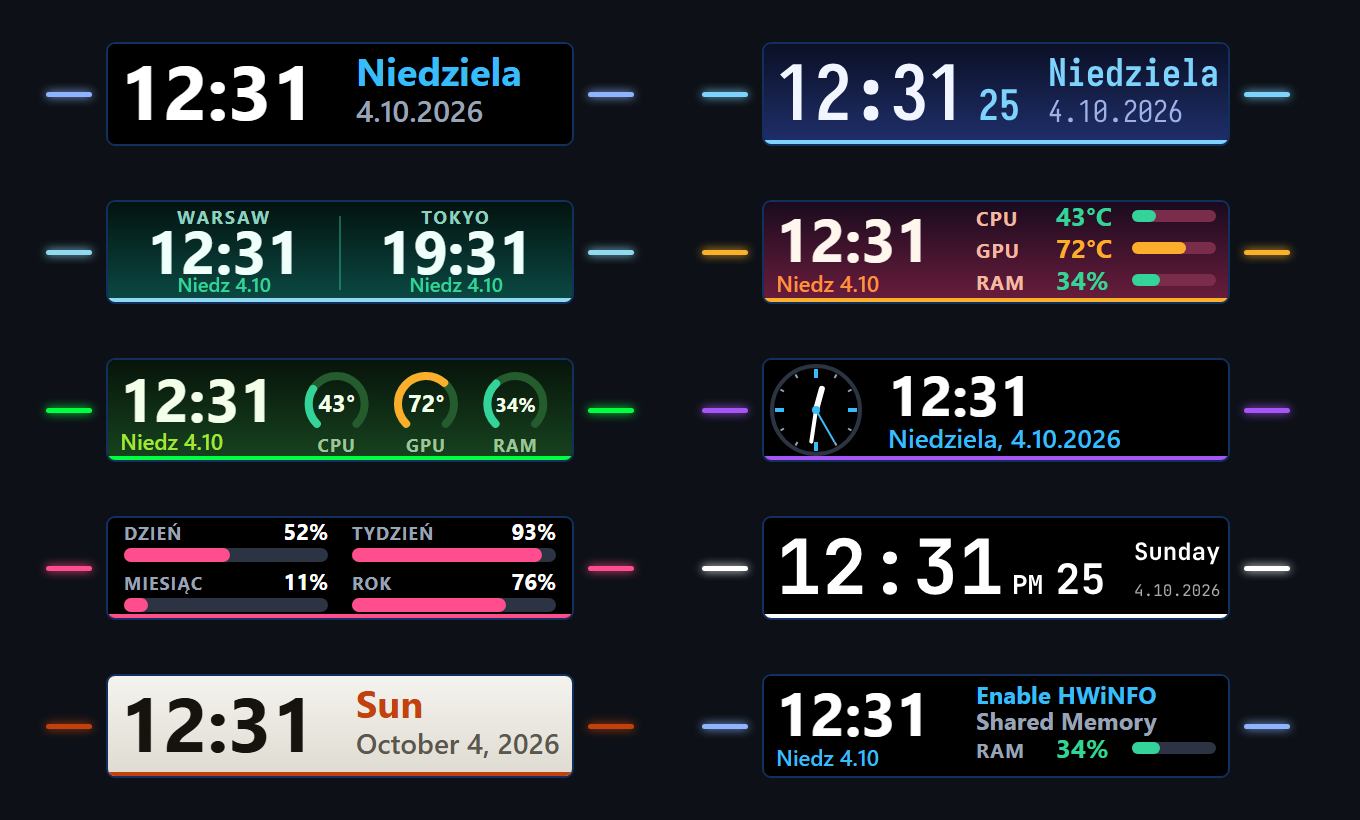
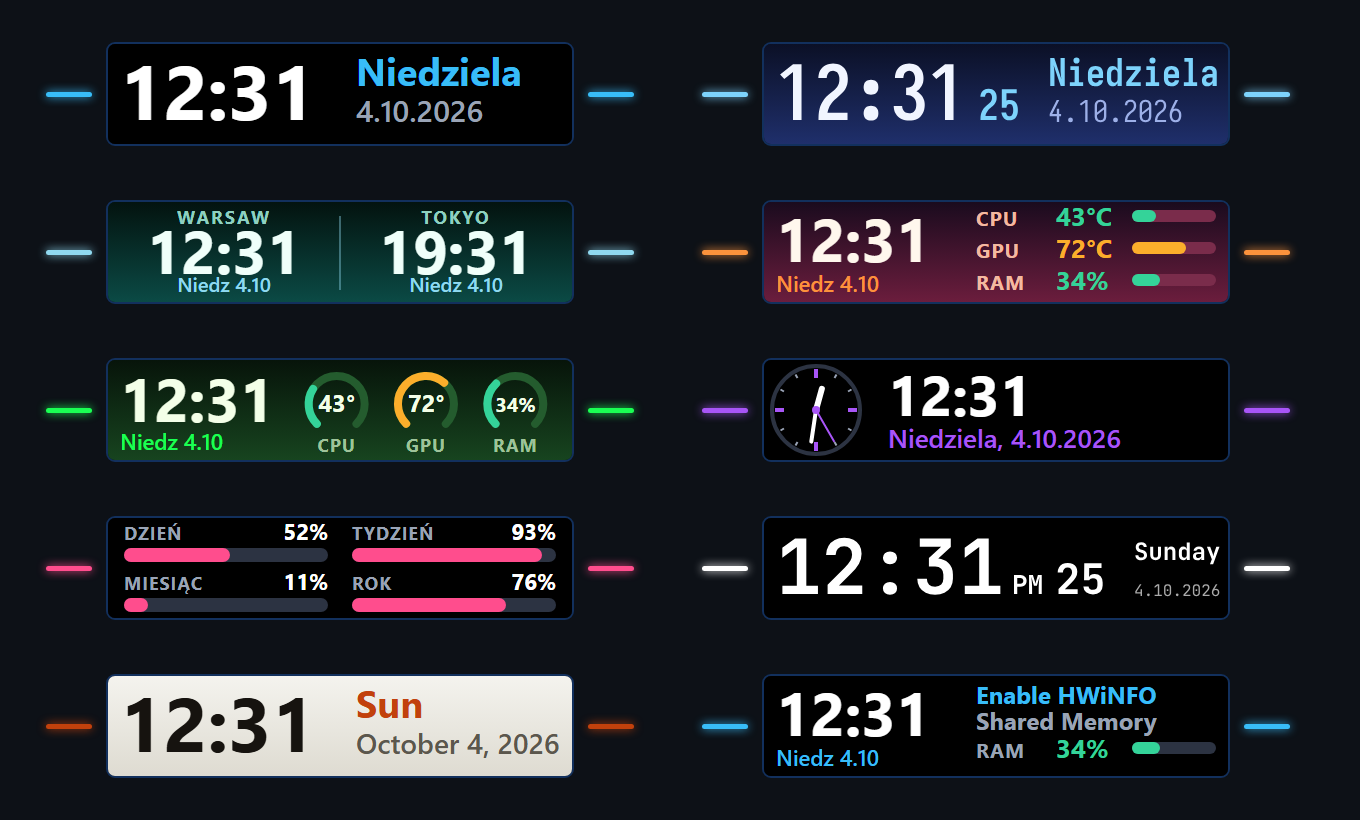
Side lights: no extra line; accent effects (rainbow, pulse, temperature, time of day, weekday, alert) drive the accent color the lights follow

diff --git a/com.elemental.infobar.sdPlugin/ui/infobar.html b/com.elemental.infobar.sdPlugin/ui/infobar.html
@@ -8,7 +8,7 @@
 		SDPIComponents.i18n.locales = {
 			en: {
 				panelLang: "Panel language", mode: "Mode", modeClock: "Clock", modeDual: "Two time zones", modeStats: "Clock + readings", modeDash: "Dashboard (gauges)", modeAnalog: "Analog clock", modeProgress: "Progress (day / week / month / year)",
-				theme: "Theme", font: "Font", refresh: "Refresh rate", rAuto: "Automatic", rSec: "per second", sensorEvery: "Readings update", sEvery: "every", accent: "Accent color", accentTheme: "From theme", accentCustom: "Custom", accentPick: "Pick a color", led: "Side lights", ledAuto: "Automatic (default)", ledAccent: "Match accent color", ledCustom: "Custom color", ledSplit: "Two colors (left / right)", ledPick2: "Right light color", ledRainbow: "Rainbow", ledPulse: "Pulse (breathing)", ledTemp: "By CPU / GPU temperature", ledHours: "By time of day", ledWeekday: "By weekday", ledAlert: "Default, red flashing when too hot", ledPick: "Light color (left)", ledNote: "The side lights take their color from a thin 2 px line along the bottom edge of the infobar.",
+				theme: "Theme", font: "Font", refresh: "Refresh rate", rAuto: "Automatic", rSec: "per second", sensorEvery: "Readings update", sEvery: "every", accent: "Accent color", accentTheme: "From theme", accentCustom: "Custom", accentPick: "Pick a color", led: "Side lights (accent effect)", ledAuto: "Fixed accent color (default)", ledRainbow: "Rainbow", ledPulse: "Pulse (breathing)", ledTemp: "By CPU / GPU temperature", ledHours: "By time of day", ledWeekday: "By weekday", ledAlert: "Red flashing when too hot", ledNote: "The side lights follow the accent color of the picture. The effects animate that accent color (day name, seconds, bars, gauges), so the lights follow it.",
 				dateLang: "Date language", langSystem: "System language", tz: "Time zone", tzLocal: "Local (system)", tzCustom: "Other (type below)…", customTz: "Time zone name", tz2: "Second time zone", customTz2: "Second zone name", label1: "Left label", label2: "Right label", labelHint: "Optional – city by default",
 				hour: "Hours", h24: "24-hour", h12: "12-hour (AM/PM)", seconds: "Seconds", showSeconds: "Show seconds", weekday: "Weekday", wLong: "Long (Sunday)", wShort: "Short (Sun)", wNone: "Hide", dateFmt: "Date format", dMid: "4 Oct 2026 (month name)", dLong: "4 October 2026 (full month)", dDm: "4 October (no year)", week: "Week number", showWeek: "Show week number (W40)", caps: "Names", capsOpt: "Capitalize weekday and month",
 				hwinfo: "HWiNFO", hwinfoNote: "CPU and GPU readings come from HWiNFO: enable Shared Memory Support in its Settings. The free version turns it off after ~12 h – just enable it again.", show: "Show", showCpu: "CPU temperature", showGpu: "GPU temperature", showRam: "RAM usage", unit: "Unit",
@@ -16,7 +16,7 @@
 			},
 			pl: {
 				panelLang: "Język panelu", mode: "Tryb", modeClock: "Zegar", modeDual: "Dwie strefy czasowe", modeStats: "Zegar + odczyty", modeDash: "Pulpit (wskaźniki)", modeAnalog: "Zegar analogowy", modeProgress: "Postęp (dzień / tydzień / miesiąc / rok)",
-				theme: "Motyw", font: "Czcionka", refresh: "Częstotliwość odświeżania", rAuto: "Automatyczna", rSec: "na sekundę", sensorEvery: "Odświeżanie odczytów", sEvery: "co", accent: "Kolor akcentu", accentTheme: "Z motywu", accentCustom: "Własny", accentPick: "Wybierz kolor", led: "Boczne diody", ledAuto: "Automatycznie (domyślnie)", ledAccent: "Kolor akcentu", ledCustom: "Własny kolor", ledSplit: "Dwa kolory (lewa / prawa)", ledPick2: "Kolor prawej diody", ledRainbow: "Tęcza", ledPulse: "Pulsowanie (oddech)", ledTemp: "Wg temperatury CPU / GPU", ledHours: "Wg pory dnia", ledWeekday: "Wg dnia tygodnia", ledAlert: "Domyślne, czerwone miganie przy przegrzaniu", ledPick: "Kolor diod (lewej)", ledNote: "Boczne diody biorą kolor z cienkiej linii (2 px) przy dolnej krawędzi paska.",
+				theme: "Motyw", font: "Czcionka", refresh: "Częstotliwość odświeżania", rAuto: "Automatyczna", rSec: "na sekundę", sensorEvery: "Odświeżanie odczytów", sEvery: "co", accent: "Kolor akcentu", accentTheme: "Z motywu", accentCustom: "Własny", accentPick: "Wybierz kolor", led: "Boczne diody (efekt koloru akcentu)", ledAuto: "Stały kolor akcentu (domyślnie)", ledRainbow: "Tęcza", ledPulse: "Pulsowanie (oddech)", ledTemp: "Wg temperatury CPU / GPU", ledHours: "Wg pory dnia", ledWeekday: "Wg dnia tygodnia", ledAlert: "Czerwone miganie przy przegrzaniu", ledNote: "Boczne diody idą za kolorem akcentu na pasku. Efekty zmieniają ten kolor akcentu (napis dnia, sekundy, paski, wskaźniki), a diody podążają za nim.",
 				dateLang: "Język daty", langSystem: "Język systemu", tz: "Strefa czasowa", tzLocal: "Lokalna (systemowa)", tzCustom: "Inna (wpisz poniżej)…", customTz: "Nazwa strefy", tz2: "Druga strefa czasowa", customTz2: "Nazwa drugiej strefy", label1: "Podpis po lewej", label2: "Podpis po prawej", labelHint: "Opcjonalnie – domyślnie miasto",
 				hour: "Godziny", h24: "24-godzinny", h12: "12-godzinny (AM/PM)", seconds: "Sekundy", showSeconds: "Pokaż sekundy", weekday: "Dzień tygodnia", wLong: "Pełny (niedziela)", wShort: "Skrót (niedz.)", wNone: "Ukryj", dateFmt: "Format daty", dMid: "4 paź 2026 (nazwa miesiąca)", dLong: "4 października 2026 (pełna nazwa)", dDm: "4 października (bez roku)", week: "Numer tygodnia", showWeek: "Pokaż numer tygodnia (W40)", caps: "Nazwy", capsOpt: "Wielka litera w dniu tygodnia i miesiącu",
 				hwinfo: "HWiNFO", hwinfoNote: "Odczyty CPU i GPU pochodzą z HWiNFO: włącz Obsługę pamięci współdzielonej w jego ustawieniach. Darmowa wersja wyłącza ją po ok. 12 h – wystarczy włączyć ją ponownie.", show: "Pokaż", showCpu: "Temperaturę CPU", showGpu: "Temperaturę GPU", showRam: "Zajętość RAM", unit: "Jednostka",
@@ -93,9 +93,6 @@
 	<sdpi-item label="__MSG_led__">
 		<sdpi-select setting="ledMode" default="auto">
 			<option value="auto">__MSG_ledAuto__</option>
-			<option value="accent">__MSG_ledAccent__</option>
-			<option value="color">__MSG_ledCustom__</option>
-			<option value="split">__MSG_ledSplit__</option>
 			<option value="rainbow">__MSG_ledRainbow__</option>
 			<option value="pulse">__MSG_ledPulse__</option>
 			<option value="temp">__MSG_ledTemp__</option>
@@ -103,12 +100,6 @@
 			<option value="weekday">__MSG_ledWeekday__</option>
 			<option value="alert">__MSG_ledAlert__</option>
 		</sdpi-select>
-	</sdpi-item>
-	<sdpi-item label="__MSG_ledPick__" data-when="ledMode=color,pulse,split">
-		<sdpi-color setting="ledColor" default="#ff4d8d"></sdpi-color>
-	</sdpi-item>
-	<sdpi-item label="__MSG_ledPick2__" data-when="ledMode=split">
-		<sdpi-color setting="ledColor2" default="#34d399"></sdpi-color>
 	</sdpi-item>
 	<sdpi-item label=" ">
 		<div style="font-size:11px;line-height:1.4;opacity:.85"><sdpi-i18n key="ledNote"></sdpi-i18n></div>
@@ -309,8 +300,6 @@
 			// wpisujemy kolor do ustawień od razu, żeby to, co widać w próbniku, było tym, co dostaje plugin
 			var ensureDefaults = function (s) {
 				var patch = {};
-				if ((s.ledMode === "color" || s.ledMode === "pulse" || s.ledMode === "split") && (!s.ledColor || s.ledColor === "#000000")) patch.ledColor = "#ff4d8d";
-				if (s.ledMode === "split" && (!s.ledColor2 || s.ledColor2 === "#000000")) patch.ledColor2 = "#34d399";
 				if (s.accentMode === "custom" && !s.accent) patch.accent = "#38bdf8";
 				if (Object.keys(patch).length) { try { client.setSettings(Object.assign({}, s, patch)); } catch (e) { console.error(e); } }
 			};

diff --git a/src/led.ts b/src/led.ts
@@ -3,14 +3,13 @@ import { resolveTz, zoned } from "./clock";
 import type { Sensors, Settings } from "./types";
 
 /**
- * Boczne diody Neo (dwie kreski przy pasku) przyjmują kolor z obrazu na pasku. Sprawdzone doświadczalnie:
- * cienka linia (2 px) przy dolnej krawędzi zmienia ich kolor. Dlatego sterujemy diodami przez kolor takiej linii.
- * Wyłączyć ich się nie da: czarna linia daje kolor domyślny (sprawdził użytkownik), więc nie ma trybu "off".
+ * Boczne diody Neo (dwie kreski przy pasku) przyjmują kolor z obrazu na pasku, w praktyce z jego najwyraźniejszego,
+ * nasyconego koloru, czyli u nas z koloru akcentu (napis dnia, sekundy, paski, wskaźniki). Dlatego diodami sterujemy
+ * wyłącznie przez kolor akcentu, bez żadnej dodatkowej linii: efekty poniżej zmieniają kolor akcentu w czasie.
+ * Wyłączyć diod się nie da, a czerń nie narzuca koloru (sprawdził użytkownik).
  */
 export type LedCtx = { s: Settings; now: Date; accent: string; sensors: Sensors; ms: number };
 
-export const DEFAULT_LED2 = "#34d399"; // prawa dioda w trybie dwóch kolorów
-export const DEFAULT_LED = "#ff4d8d"; // taki sam kolor panel wpisuje do ustawień przy wyborze trybu z kolorem (wyraźnie inny niż domyślny błękit diod)
 const HEX = /^#[0-9a-f]{6}$/i;
 
 const toRgb = (h: string) => [1, 3, 5].map((i) => parseInt(h.slice(i, i + 2), 16));
@@ -30,29 +29,22 @@ function hsl(h: number, s: number, l: number): number[] {
 const DAY: [number, string][] = [[0, "#0b1a4a"], [5, "#25207a"], [6.5, "#ff7a3d"], [9, "#ffd36b"], [12, "#7fd8ff"], [16, "#ffe08a"], [18.5, "#ff6a3d"], [20, "#7a3cff"], [22, "#1a2a7a"], [24, "#0b1a4a"]];
 const WEEK = ["#a855f7", "#ef4444", "#f97316", "#eab308", "#22c55e", "#06b6d4", "#3b82f6"]; // niedziela ... sobota
 
-/** Kolor linii sterującej diodami: jeden kolor albo para [lewa, prawa]; null = tryb automatyczny (nic nie rysujemy). */
-export function ledColor(c: LedCtx): string | [string, string] | null {
+/**
+ * Efekt koloru akcentu (a więc i bocznych diod) w danej chwili albo null (stały kolor akcentu, tryb domyślny).
+ * Zwrócony kolor zastępuje akcent motywu / własny akcent we wszystkich elementach akcentowych.
+ */
+export function accentEffect(c: LedCtx): string | null {
 	const { s } = c;
-	// czarna linia daje kolor domyślny diod, więc czerń (próbnik zapisuje ją, gdy tylko go otworzysz) traktujemy jak brak wyboru
-	const picked = HEX.test(s.ledColor ?? "") && s.ledColor !== "#000000" ? (s.ledColor as string) : DEFAULT_LED;
 	switch (s.ledMode) {
-		case "accent":
-			return c.accent;
-		case "color":
-			return picked;
-		case "split": {
-			const right = HEX.test(s.ledColor2 ?? "") && s.ledColor2 !== "#000000" ? (s.ledColor2 as string) : DEFAULT_LED2;
-			return [picked, right];
-		}
 		case "rainbow":
-			return toHex(hsl(((c.ms / 1000 / 24) % 1) * 360, 1, 0.5)); // pełny obrót barw co 24 s
+			return toHex(hsl(((c.ms / 1000 / 24) % 1) * 360, 1, 0.55)); // pełny obrót barw co 24 s
 		case "pulse": {
-			const k = 0.25 + 0.75 * (0.5 + 0.5 * Math.sin((c.ms / 1000) * ((2 * Math.PI) / 3.5))); // oddech co 3,5 s
-			return toHex(toRgb(picked).map((v) => v * k));
+			const k = 0.3 + 0.7 * (0.5 + 0.5 * Math.sin((c.ms / 1000) * ((2 * Math.PI) / 3.5))); // oddech co 3,5 s
+			return toHex(toRgb(HEX.test(c.accent) ? c.accent : "#38bdf8").map((v) => v * k));
 		}
 		case "temp": {
 			const t = [c.sensors.cpu?.temp, c.sensors.gpu?.temp].filter((v): v is number => typeof v === "number");
-			return t.length ? autoColor(Math.max(...t), 70, 85) : c.accent;
+			return t.length ? autoColor(Math.max(...t), 70, 85) : null;
 		}
 		case "hours": {
 			const z = zoned(c.now, resolveTz(s.tz, s.customTz));
@@ -70,15 +62,9 @@ export function ledColor(c: LedCtx): string | [string, string] | null {
 			return WEEK[zoned(c.now, resolveTz(s.tz, s.customTz)).dow];
 		case "alert": {
 			const hot = (c.sensors.cpu?.temp ?? 0) >= 85 || (c.sensors.gpu?.temp ?? 0) >= 83;
-			return hot ? (Math.floor(c.ms / 500) % 2 === 0 ? "#ff0000" : "#400000") : null; // zwykle kolor domyślny (diod nie da się zgasić), przy przegrzaniu miga na czerwono
+			return hot ? (Math.floor(c.ms / 500) % 2 === 0 ? "#ff2d2d" : "#7a1010") : null; // przy przegrzaniu akcent miga na czerwono
 		}
 		default:
 			return null;
 	}
 }
-
-/** Dwupikselowa linia przy dolnej krawędzi paska. */
-export const ledStrip = (color: string | [string, string]) =>
-	typeof color === "string"
-		? `<rect x="0" y="48" width="232" height="2" fill="${color}"/>`
-		: `<rect x="0" y="48" width="116" height="2" fill="${color[0]}"/><rect x="116" y="48" width="116" height="2" fill="${color[1]}"/>`; // lewa i prawa połowa osobnym kolorem

diff --git a/src/plugin.ts b/src/plugin.ts
@@ -1,7 +1,7 @@
 import streamDeck, { action, SingletonAction, WillAppearEvent, WillDisappearEvent, DidReceiveSettingsEvent, type NeoInfobarAction } from "@elgato/streamdeck";
 import { THEMES, renderMode } from "./modes";
 import { readCpu, readGpu, readRam, shmStatus } from "./sensors";
-import { ledColor, ledStrip } from "./led";
+import { accentEffect } from "./led";
 import type { Sensors, Settings } from "./types";
 
 type Entry = { bar: NeoInfobarAction<Settings>; settings: Settings; timer?: NodeJS.Timeout; last: string };
@@ -21,12 +21,12 @@ function frame(e: Entry): string {
 	const t = THEMES[s.theme ?? "black"] ?? THEMES.black;
 	// Własny kolor: domyślna wartość próbnika w panelu (#38bdf8) nie jest zapisywana, dopóki jej nie zmienisz – używamy jej od razu
 	const picked = /^#[0-9a-f]{6}$/i.test(s.accent ?? "") ? (s.accent as string) : DEFAULT_ACCENT;
-	const accent = s.accentMode === "custom" ? picked : t.accent;
+	const base = s.accentMode === "custom" ? picked : t.accent;
 	const now = new Date();
 	const ms = Date.now();
-	const svg = renderMode(s.mode ?? "clock", { now, s, t, accent, sensors, ms, smooth: rateOf(s) > 1 });
-	const led = ledColor({ s, now, accent, sensors, ms });
-	return led ? svg.replace("</svg>", `${ledStrip(led)}</svg>`) : svg;
+	// Boczne diody idą za kolorem akcentu, więc efekty (tęcza, pulsowanie, temperatura...) zmieniają sam akcent – bez dodatkowej linii
+	const accent = accentEffect({ s, now, accent: base, sensors, ms }) ?? base;
+	return renderMode(s.mode ?? "clock", { now, s, t, accent, sensors, ms, smooth: rateOf(s) > 1 });
 }
 
 /** Liczba odświeżeń na sekundę: wybrana w panelu albo domyślnie 1. */

diff --git a/src/types.ts b/src/types.ts
@@ -22,10 +22,8 @@ export type Settings = {
 	showWeek?: boolean;
 	capitalize?: boolean;
 
-	// boczne diody (kolor linii przy dolnej krawędzi)
+	// efekt koloru akcentu (a więc i bocznych diod)
 	ledMode?: string;
-	ledColor?: string;
-	ledColor2?: string;
 
 	// wygląd i szybkość
 	font?: string;

diff --git a/README.md b/README.md
@@ -4,7 +4,7 @@ Turns the infobar of the **Stream Deck Neo** (the small screen between the two t
 
 ![Elemental Infobar examples](docs/showcase.png)
 
-*Example infobars with sample values: clock, clock with seconds in a built-in font, two time zones, clock with readings, dashboard, analog clock, progress, 12-hour clock in English, a light theme, and the message shown when HWiNFO Shared Memory is off. The colored bars on both sides stand for the side lights.*
+*Example infobars with sample values: clock, clock with seconds in a built-in font, two time zones, clock with readings, dashboard, analog clock, progress, 12-hour clock in English, a light theme, and the message shown when HWiNFO Shared Memory is off. The colored bars on both sides stand for the side lights, which follow the accent color of the picture.*
 
 ## Requirements
 
@@ -46,7 +46,7 @@ Messages shown in the readings modes instead of a value:
 - **Time zone** from a list or any IANA name (e.g. `Europe/Vienna`); 24 h or 12 h; seconds; long / short / hidden weekday; eight date formats; ISO week number; capitalization of names
 - **Themes**: Black, Midnight, Aurora, Sunset, Forest, Mono, Paper, plus your own accent color
 - **Fonts**: Segoe UI, Arial, Bahnschrift, Tahoma and Trebuchet MS (these all render at a similar size), and two monospaced fonts built into the plugin that need no installation – JetBrains Mono and Iosevka. A built-in font is used only for text it has all the glyphs for; anything else is drawn in a system font.
-- **Side lights** (the two lights next to the infobar): automatic, match the accent color, custom color, rainbow, pulsing, by CPU / GPU temperature, by time of day, by weekday, or flashing red when something runs too hot. The plugin sets them through the color of a thin 2 px line along the bottom edge of the picture. The lights cannot be switched off: black just gives the default color.
+- **Side lights** (the two lights next to the infobar) follow the accent color of the picture, so the accent color setting colors them too. On top of that an **accent effect** can animate the accent (day name, seconds, bars, gauges) and the lights with it: rainbow, pulsing, by CPU / GPU temperature, by time of day, by weekday, or flashing red when something runs too hot. The effects show best in the clock, two-zone, analog and progress modes; in the readings modes the data colors (green / amber / red) compete with the accent. The lights cannot be switched off, and black does not set a color.
 - **Refresh rate**: from 1 to 20 times per second (a smooth sweeping second hand on the analog clock); readings can be updated every 1, 2, 5 or 10 seconds
 - Readings: choose which of CPU / GPU / RAM to show and °C / °F
 - Language of the settings panel: English or Polish (Auto follows Stream Deck, or choose it yourself)
@@ -57,7 +57,7 @@ Readings are matched by their HWiNFO labels, with priority lists for Intel (`CPU
 
 ## Good to know
 
-- The infobar is not a button: it only displays. The two touch points next to it are not programmable (they only switch pages), but their lights follow the picture – see **Side lights**.
+- The infobar is not a button: it only displays. The two touch points next to it are not programmable (they only switch pages), but their lights follow the accent color of the picture – see **Side lights**.
 - The plugin draws the whole infobar as one 232 × 50 px image, so colors and fonts are the same everywhere.
 - For the readings modes (and the temperature-based side lights) the plugin starts a small `powershell.exe` helper to read HWiNFO's shared memory. Locked-down PCs or aggressive antivirus software may block it.
 - Windows only.
@@ -74,7 +74,7 @@ npx streamdeck pack com.elemental.infobar.sdPlugin --output dist --force
 
 - `src/clock.ts` – time zones, locale-aware names, date formats
 - `src/modes.ts` – SVG rendering of every mode and theme
-- `src/led.ts` – color of the side lights
+- `src/led.ts` – accent effects (and so the color of the side lights)
 - `src/plugin.ts` – the infobar action, timers, sensor polling
 - `src/glyphs.ts` + `com.elemental.infobar.sdPlugin/fonts/*.json` – built-in fonts drawn as vector paths (generated by `scripts/gen-fonts.mjs` from the @fontsource packages, SIL OFL 1.1)
 - `src/metrics.json` – character widths of the system fonts (generated by `scripts/gen-metrics.mjs`)
